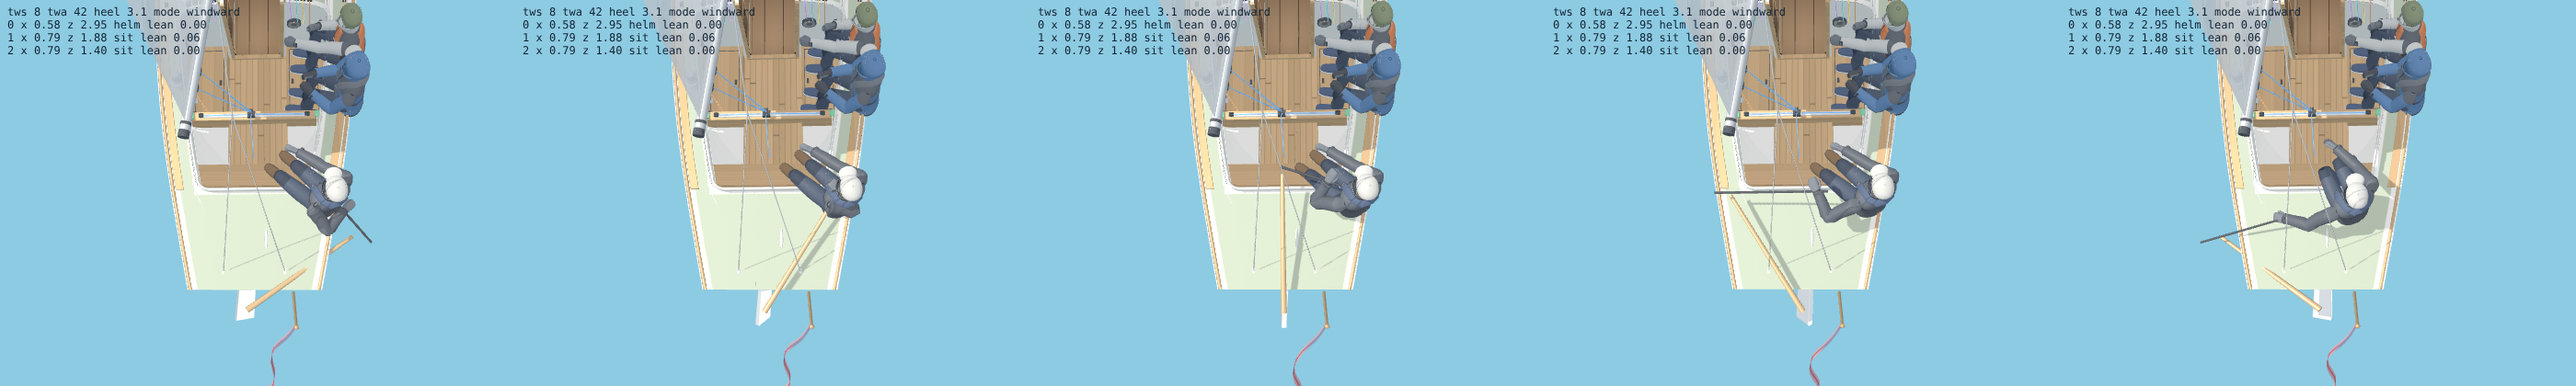
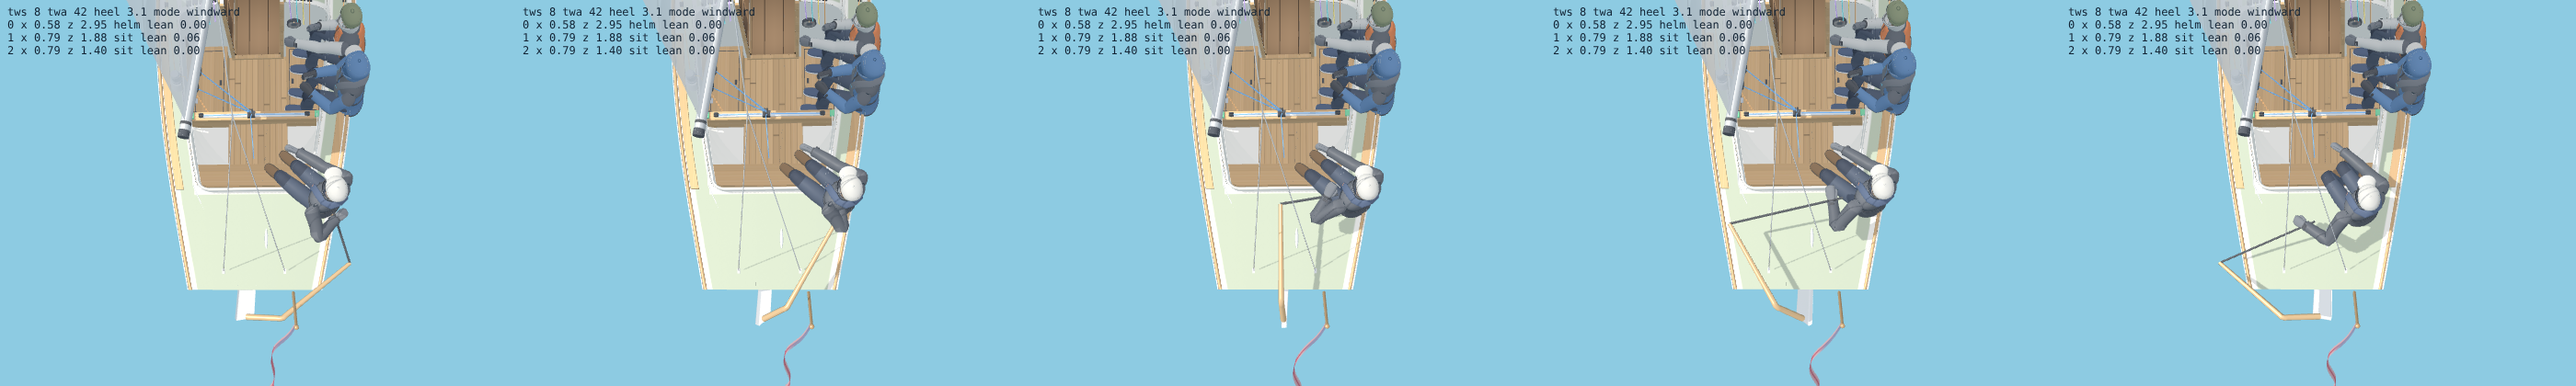
helm-travel: the tiller rises from the rudder head and clears the rail to hard over (ESTIMATE)
Her hinge is raked 46° from upright, so a tiller turned about it drops as it swings. The straight tiller, 12° above level
and 1.3 m long, came down through the toerail at 75° (the travel the owner's own boat has, the Coordinator's ruling),
its end 14 cm below the deck's edge, out over the side.

- hull.ts TILLER / tillerPath: the fitting 8 cm up, a neck 35 cm long climbing at 60°, then on forward at 8°; 1.2 m in
  all, tapered. ESTIMATE: the class rules give no shape (CR 5.50: wood, removable, above the deck, not divided or
  hooped; an extension optional).
- tests/tillerClear.test.ts: to ±75° either way, no part of it is below the deck, the toerail, the coaming or the deck's
  edge. It clears by about 4 cm at worst (2 cm required).
- crew.ts: the tiller's end comes from the same path, so the helm's hand stays on the extension (1 m or less, both tacks,
  0°, 40° and 75° each way). The ensign staff is 29 cm or more from it at every angle.
- docs/helm-travel-figures: after_above, after_astern (−75°…75°) and after_side_75 (hard over each way, seen from the
  side it's put to).

Claude-Session: https://claude.ai/code/session_012Uu5QiXrMLFqZYcrUp8g2b

diff --git a/src/render/hull.ts b/src/render/hull.ts
@@ -690,6 +690,25 @@ export function rail(pts: THREE.Vector3[], hh: number | ((i: number) => number),
  * heel, z aft. Put the group at HEEL rotated by RUDDER_RAKE about x; turn it about its y axis to steer.
  */
 export const RUDDER_RAKE = Math.atan2(TRANSOM_TOP.z - HEEL.z, TRANSOM_TOP.y - HEEL.y);
+/**
+ * The tiller's shape (ESTIMATE: the class rules give none, CR 5.50). Her hinge is raked 46° from upright, so a tiller
+ * turned about it drops as it swings: a straight one, 12° above level, put hard over (75°, physics' HARD_OVER: the owner's
+ * own boat goes nearly flush with the transom) came down through the toerail, its end 14 cm below the deck's edge, out
+ * over the side. So a Folkboat's tiller rises from the rudder head: here its fitting 8 cm up, then a neck 35 cm long
+ * climbing at 60° (in the boat's frame, amidships), then on forward at 8°; 1.2 m in all. At every angle to 75° it and
+ * its end clear the deck, the toerail and the coaming by 3 cm or more (tests/tillerClear.test.ts).
+ */
+export const TILLER = { headRise: 0.08, neck: 60, neckLen: 0.35, run: 8, len: 1.2 };
+/** The tiller's center line, head to end, in the rudder's frame (rudderGeometry's: y up the hinge from the heel, z aft). */
+export function tillerPath(n = 24): THREE.Vector3[] {
+  const r = RUDDER_RAKE, toWL = -HEEL.y / Math.cos(r), s0 = toWL - 1.528;
+  // (a direction `deg` above level in the boat's frame, amidships, worked back into the rudder's raked frame)
+  const d = (deg: number) => { const up = deg * Math.PI / 180, wy = Math.sin(up), wz = -Math.cos(up); return new THREE.Vector3(0, wy * Math.cos(r) + wz * Math.sin(r), -wy * Math.sin(r) + wz * Math.cos(r)).normalize(); };
+  const head = new THREE.Vector3(0, s0 + 2.62 + TILLER.headRise, 0.06), bend = head.clone().addScaledVector(d(TILLER.neck), TILLER.neckLen);
+  const out: THREE.Vector3[] = [];
+  for (let i = 0; i <= n; i++) { const t = TILLER.len * i / n; out.push(t <= TILLER.neckLen ? head.clone().addScaledVector(d(TILLER.neck), t) : bend.clone().addScaledVector(d(TILLER.run), t - TILLER.neckLen)); }
+  return out;
+}
 function rudderGeometryBuild(): { blade: THREE.BufferGeometry; tiller: THREE.BufferGeometry } {
   // the class's rudder (CR 5.20): breadth square off the fore edge (the hinge), at distances up the fore edge from the
   // blade's lower edge, ±20 mm; 1528 mm up is at the waterline, and the head runs on, 160 mm wide, to 2700 mm
@@ -704,12 +723,13 @@ function rudderGeometryBuild(): { blade: THREE.BufferGeometry; tiller: THREE.Buf
   // shape (x, y) → (z, y); extrusion → x, centred
   blade.applyMatrix4(new THREE.Matrix4().set(0, 0, 1, -0.018, 0, 1, 0, 0, 1, 0, 0, 0, 0, 0, 0, 1));
   blade.computeVertexNormals();
-  // tiller (CR 5.50, above the deck): from the rudder head, forward over the after deck and a little up into the
-  // cockpit, about 12° above level in the boat's frame (worked back into the rudder's raked frame)
-  const up = 12 * Math.PI / 180, r = RUDDER_RAKE, wy = Math.sin(up), wz = -Math.cos(up);
-  const dir = new THREE.Vector3(0, wy * Math.cos(r) + wz * Math.sin(r), -wy * Math.sin(r) + wz * Math.cos(r)).normalize();
-  const head = new THREE.Vector3(0, s0 + 2.62, 0.06), tl = 1.3, tiller = new THREE.CylinderGeometry(0.018, 0.028, tl, 8);
-  tiller.translate(0, tl / 2, 0); tiller.applyQuaternion(new THREE.Quaternion().setFromUnitVectors(new THREE.Vector3(0, 1, 0), dir)); tiller.translate(head.x, head.y, head.z);
+  // tiller (CR 5.50: wood, removable, above the deck, not divided or hooped; an extension optional): along tillerPath,
+  // tapering from the head to its end
+  const path = tillerPath(), curve = new THREE.CatmullRomCurve3(path), seg = 40, rad = 8;
+  const tiller = new THREE.TubeGeometry(curve, seg, 1, rad, false), tp = tiller.attributes.position as THREE.BufferAttribute;
+  for (let i = 0; i <= seg; i++) { const c = curve.getPointAt(i / seg), r = 0.028 + (0.018 - 0.028) * i / seg;
+    for (let j = 0; j <= rad; j++) { const k = i * (rad + 1) + j; tp.setXYZ(k, c.x + (tp.getX(k) - c.x) * r, c.y + (tp.getY(k) - c.y) * r, c.z + (tp.getZ(k) - c.z) * r); } }
+  tiller.computeVertexNormals();
   return { blade, tiller };
 }
 

diff --git a/tests/tillerClear.test.ts b/tests/tillerClear.test.ts
@@ -1,0 +1,24 @@
+import { describe, expect, it } from 'vitest';
+import * as THREE from 'three';
+import { COAMING_H, COCKPIT, HEEL, L, RUDDER_RAKE, cockpitHalf, deckY, halfBeam, sheer, tillerPath, uAtZ } from '../src/render/hull';
+import { HARD_OVER } from '../src/boat/balance';
+
+// The tiller put over to hard over either way (balance.ts HARD_OVER, 75°: the owner's own boat), turning about her raked
+// hinge: no part of it below the deck, the toerail (3.5 cm on the sheer), the coaming or, out past the rail, the deck's
+// edge (hull.ts TILLER: its rise from the rudder head)
+const COCK1 = -L / 2 + COCKPIT.u1 * L, X = new THREE.Vector3(1, 0, 0), Y = new THREE.Vector3(0, 1, 0);
+describe('The tiller clears the deck at every angle to hard over (hull.ts tillerPath)', () => {
+  it(`clear by 2 cm or more, to ±${HARD_OVER}°`, () => {
+    const pts = tillerPath(60); let worst = 9, at = '';
+    for (let deg = -HARD_OVER; deg <= HARD_OVER; deg += 2.5) pts.forEach((p, i) => {
+      const q = p.clone().applyAxisAngle(Y, deg * Math.PI / 180).applyAxisAngle(X, RUDDER_RAKE).add(new THREE.Vector3(0, HEEL.y, HEEL.z));
+      const u = uAtZ(q.z); if (u > 1) return; // (aft of the transom: the rudder head, over the water)
+      const hb = halfBeam(u), ax = Math.abs(q.x), rad = 0.028 + (0.018 - 0.028) * i / (pts.length - 1);
+      let floor = ax < hb ? deckY(u, ax) : sheer(u);
+      if (ax > hb - 0.08) floor = Math.max(floor, sheer(u) + 0.035); // (the toerail, and the deck's edge outboard of it)
+      if (q.z < COCK1 + 0.02 && ax > cockpitHalf(u) - 0.02 && ax < cockpitHalf(u) + 0.06) floor = Math.max(floor, deckY(u, ax) + COAMING_H(q.z)); // (the coaming)
+      const c = q.y - rad - floor; if (c < worst) { worst = c; at = `${deg}°, (${q.x.toFixed(2)}, ${q.y.toFixed(2)}, ${q.z.toFixed(2)})`; }
+    });
+    expect(worst, at).toBeGreaterThan(0.02);
+  });
+});

diff --git a/src/render/crew.ts b/src/render/crew.ts
@@ -4,7 +4,7 @@ import { mergeGeometries } from 'three/examples/jsm/utils/BufferGeometryUtils.js
 import type { CrewState, Person, Pose as Job } from '../boat/crewPhys';
 import { DECK_ARM, slotOf } from '../boat/crewPhys';
 import { BONE, buildBody, type Body } from './crewBody';
-import { CABIN, COAMING_H, COAMING_T, COCKPIT, COCKPIT_FIT, COMPANIONWAY, canoe, FOOTREST, footrestEdge, HEEL, JIB_WINCH_Z, L, TRANSOM_TOP, cabinHalf, cabinTopAt, cockpitHalf, deckY, halfBeam, hullInnerHalf, thwartTop, uAtZ, benchOut } from './hull';
+import { CABIN, COAMING_H, COAMING_T, COCKPIT, COCKPIT_FIT, COMPANIONWAY, canoe, FOOTREST, footrestEdge, JIB_WINCH_Z, L, cabinHalf, cabinTopAt, cockpitHalf, deckY, halfBeam, hullInnerHalf, thwartTop, uAtZ, benchOut, tillerPath } from './hull';
 
 /**
  * The people aboard, drawn as people: a jointed figure for each (pelvis, torso, head, arms with elbows and hands,
@@ -1132,11 +1132,7 @@ function toward(p: THREE.Vector3, q: THREE.Vector3, a: number, max: number): voi
 }
 
 /** Where the tiller's end is in the boat's frame, from the rudder (boatMesh.ts: the group turned to steer). */
-const TILLER_TIP = (() => {
-  // (rudderGeometry: the tiller from the rudder head, 1.3 m forward and a little up, in the hinge's frame)
-  const len = Math.hypot(TRANSOM_TOP.z - HEEL.z, TRANSOM_TOP.y - HEEL.y) + 0.1;
-  return V(0, len - 0.03, 0.04).addScaledVector(V(0, -0.317, -0.949).normalize(), 1.3);
-})();
+const TILLER_TIP = tillerPath().at(-1)!; // (in the hinge's frame: hull.ts, the tiller's shape)
 export function tillerTip(turn: THREE.Object3D): THREE.Vector3 {
   const rud = turn.parent!; turn.updateMatrix(); rud.updateMatrix();
   return TILLER_TIP.clone().applyMatrix4(turn.matrix).applyMatrix4(rud.matrix);
